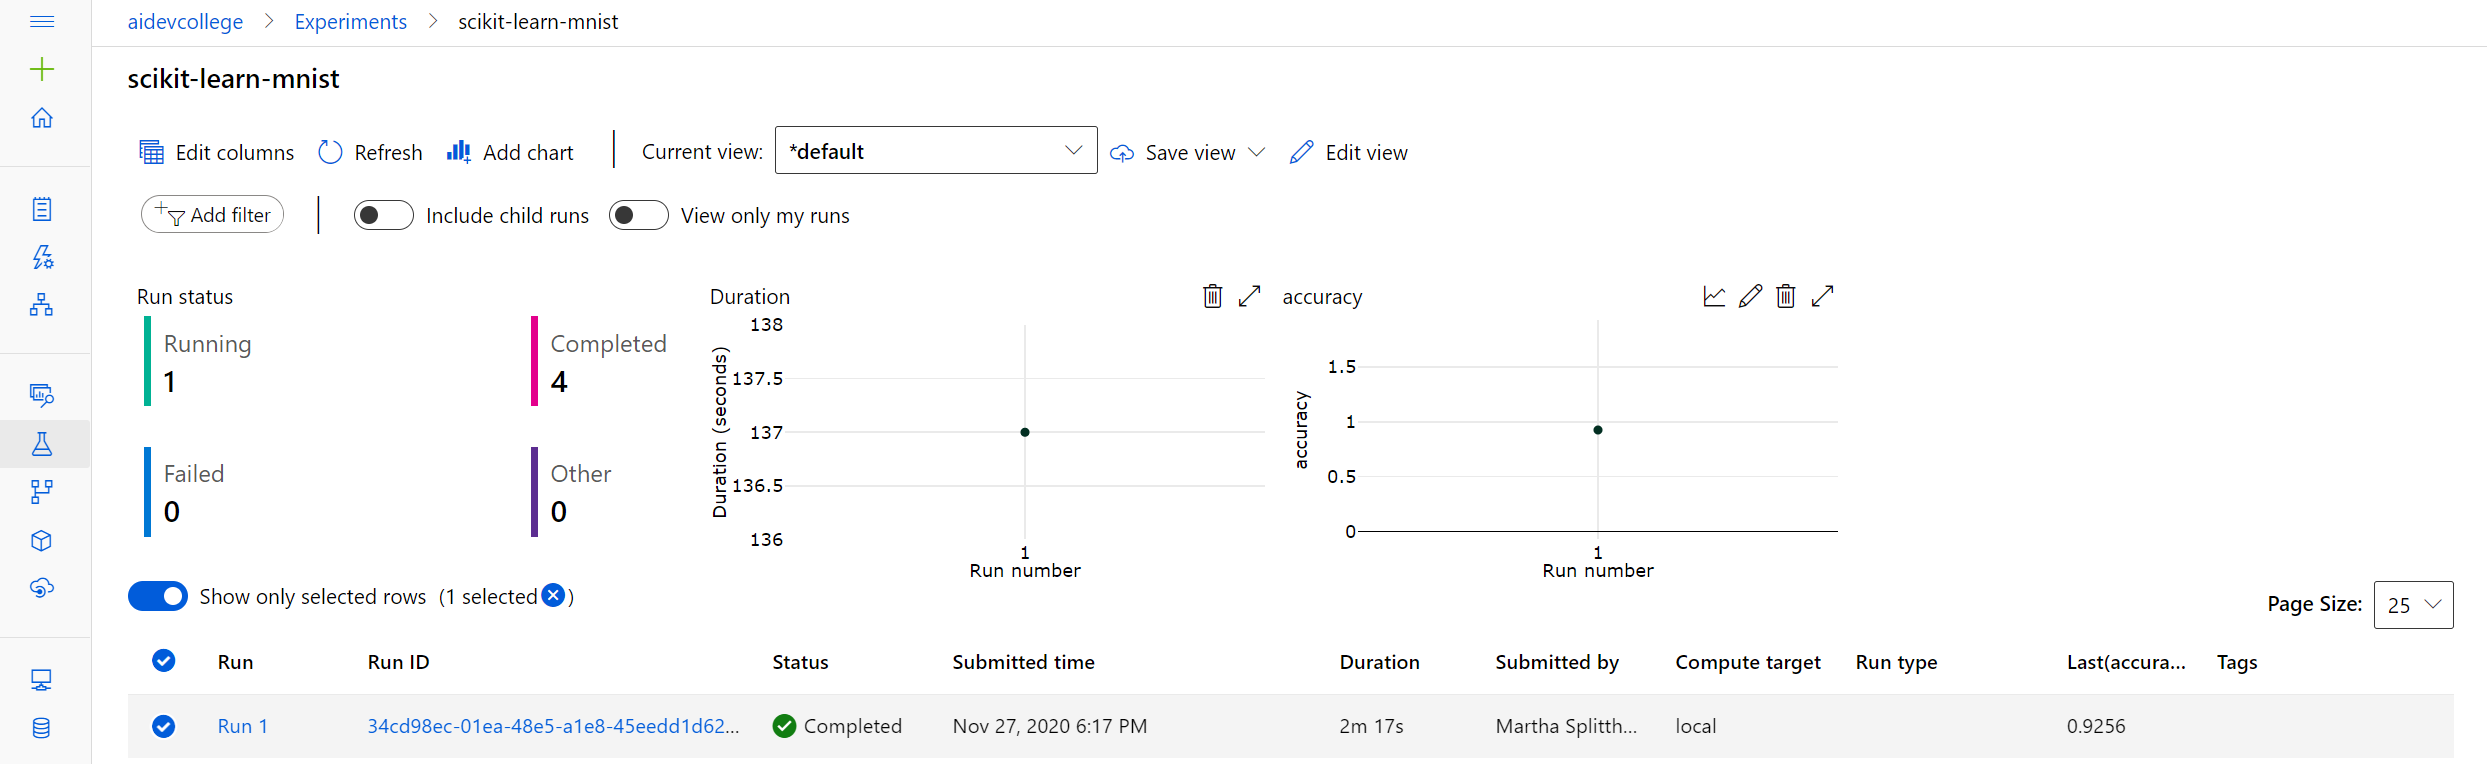
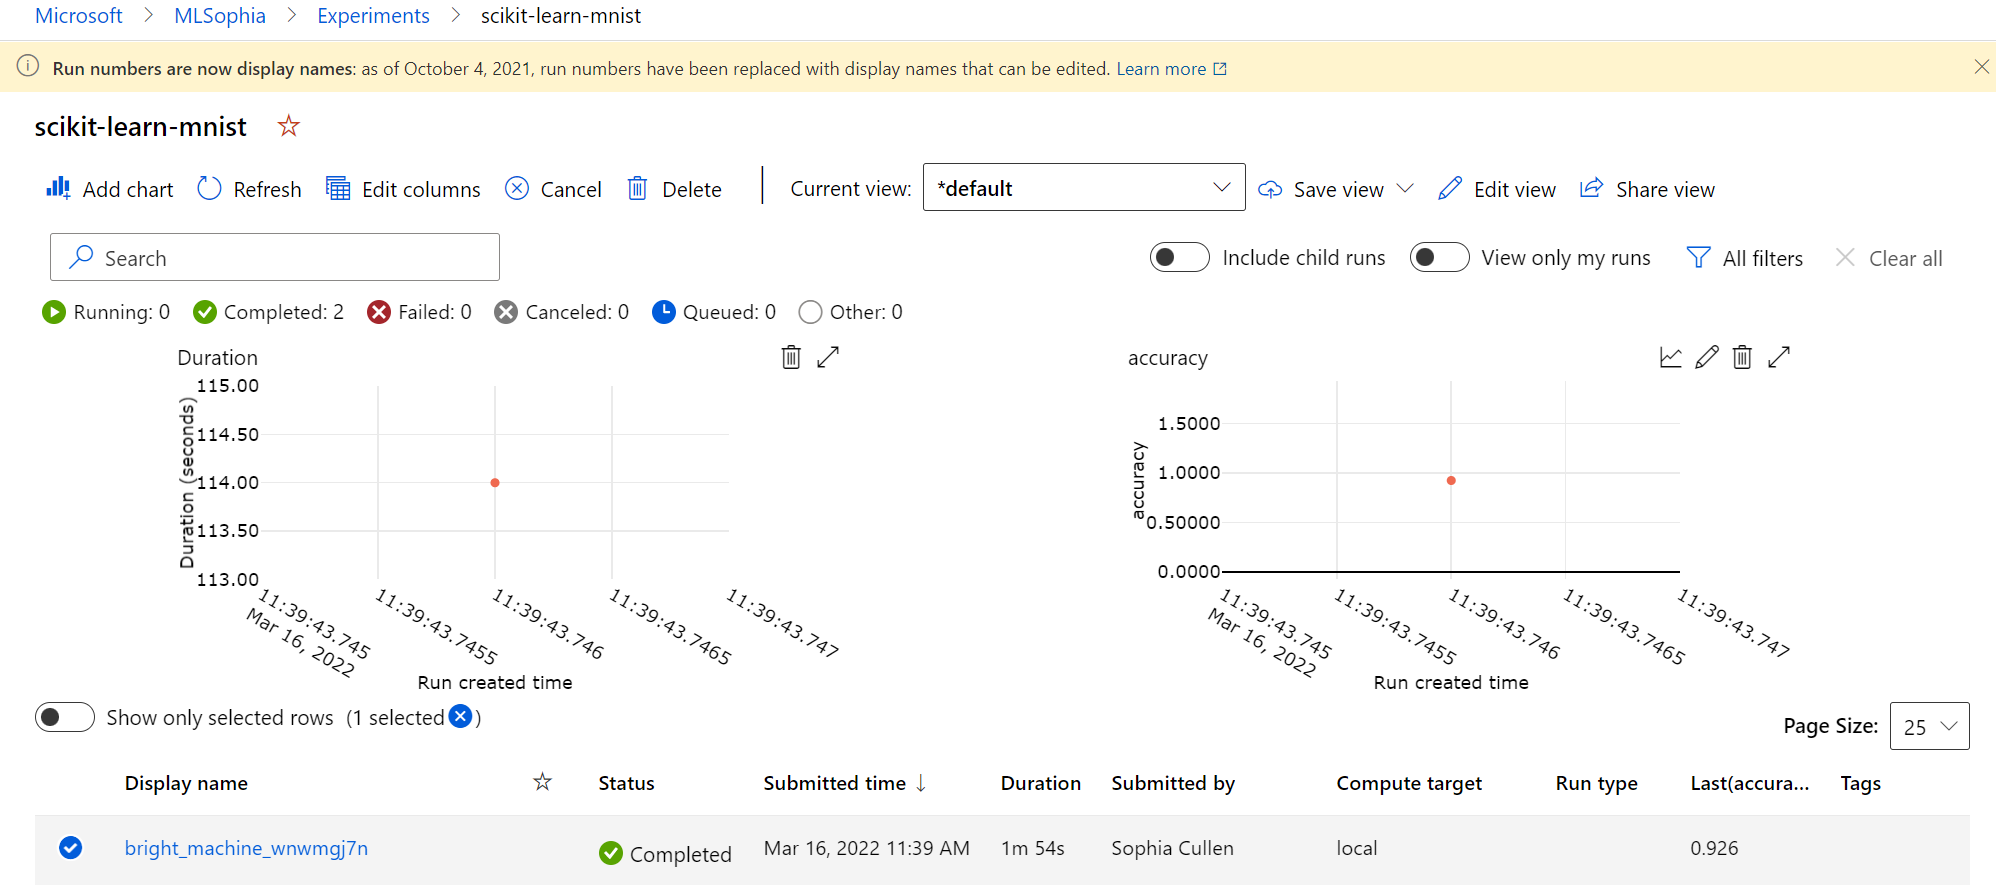
Change run to display name

diff --git a/day1/AzureMachineLearningService/challenges/challenge_01.md b/day1/AzureMachineLearningService/challenges/challenge_01.md
@@ -219,7 +219,7 @@ Inside our experiment, we can see our first run (your view might differ slightly
 
 ![alt text](../images/01-runs.png "Viewing our runs")
 
-If we click the run number, we can see its details:
+If we click the *display name*, we can see its details:
 
 ![alt text](../images/01-run_details.png "Run Details")
 
